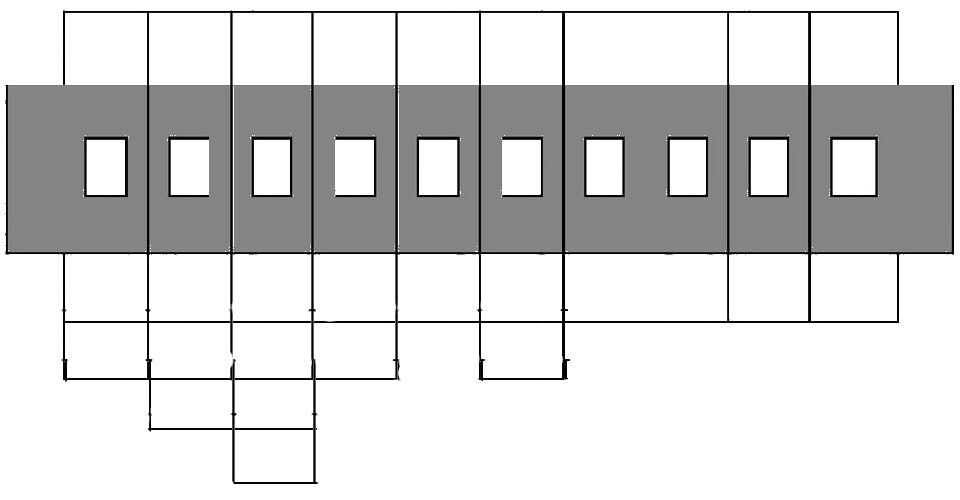
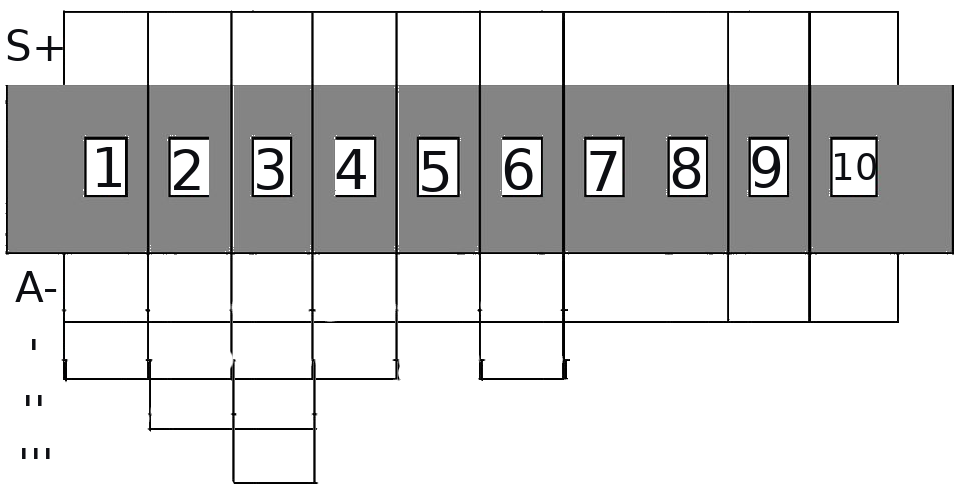
Adição de Escalas

diff --git a/HarmonicaTones/Form1.Designer.cs b/HarmonicaTones/Form1.Designer.cs
@@ -55,7 +55,7 @@ namespace HarmonicaTones
             this.HeaderLayoutPanel.ColumnStyles.Add(new System.Windows.Forms.ColumnStyle(System.Windows.Forms.SizeType.Percent, 75.46777F));
             this.HeaderLayoutPanel.ColumnStyles.Add(new System.Windows.Forms.ColumnStyle(System.Windows.Forms.SizeType.Percent, 24.53222F));
             this.HeaderLayoutPanel.ColumnStyles.Add(new System.Windows.Forms.ColumnStyle(System.Windows.Forms.SizeType.Absolute, 121F));
-            this.HeaderLayoutPanel.ColumnStyles.Add(new System.Windows.Forms.ColumnStyle(System.Windows.Forms.SizeType.Absolute, 631F));
+            this.HeaderLayoutPanel.ColumnStyles.Add(new System.Windows.Forms.ColumnStyle(System.Windows.Forms.SizeType.Absolute, 635F));
             this.HeaderLayoutPanel.Controls.Add(this.label_HarmonicaTune, 0, 0);
             this.HeaderLayoutPanel.Controls.Add(this.ToneComboBox, 0, 1);
             this.HeaderLayoutPanel.Controls.Add(this.label_ScaleFamily, 1, 0);
@@ -93,7 +93,7 @@ namespace HarmonicaTones
             // label_ScaleFamily
             // 
             this.label_ScaleFamily.AutoSize = true;
-            this.label_ScaleFamily.Location = new System.Drawing.Point(365, 0);
+            this.label_ScaleFamily.Location = new System.Drawing.Point(362, 0);
             this.label_ScaleFamily.Name = "label_ScaleFamily";
             this.label_ScaleFamily.Size = new System.Drawing.Size(77, 25);
             this.label_ScaleFamily.TabIndex = 4;
@@ -102,7 +102,7 @@ namespace HarmonicaTones
             // ScaleComboBox
             // 
             this.ScaleComboBox.FormattingEnabled = true;
-            this.ScaleComboBox.Location = new System.Drawing.Point(482, 45);
+            this.ScaleComboBox.Location = new System.Drawing.Point(478, 45);
             this.ScaleComboBox.Name = "ScaleComboBox";
             this.ScaleComboBox.Size = new System.Drawing.Size(115, 33);
             this.ScaleComboBox.TabIndex = 3;
@@ -111,9 +111,9 @@ namespace HarmonicaTones
             // ScaleNotesComboBox
             // 
             this.ScaleNotesComboBox.FormattingEnabled = true;
-            this.ScaleNotesComboBox.Location = new System.Drawing.Point(365, 45);
+            this.ScaleNotesComboBox.Location = new System.Drawing.Point(362, 45);
             this.ScaleNotesComboBox.Name = "ScaleNotesComboBox";
-            this.ScaleNotesComboBox.Size = new System.Drawing.Size(111, 33);
+            this.ScaleNotesComboBox.Size = new System.Drawing.Size(110, 33);
             this.ScaleNotesComboBox.TabIndex = 6;
             this.ScaleNotesComboBox.SelectedIndexChanged += new System.EventHandler(this.ScaleNotesComboBox_SelectedIndexChanged);
             // 
@@ -149,30 +149,31 @@ namespace HarmonicaTones
             this.ImageLayoutPanel.Anchor = ((System.Windows.Forms.AnchorStyles)((((System.Windows.Forms.AnchorStyles.Top | System.Windows.Forms.AnchorStyles.Bottom) 
             | System.Windows.Forms.AnchorStyles.Left) 
             | System.Windows.Forms.AnchorStyles.Right)));
-            this.ImageLayoutPanel.BackgroundImage = global::HarmonicaTones.Properties.Resources.Harmonica;
+            this.ImageLayoutPanel.BackgroundImage = global::HarmonicaTones.Properties.Resources.Harmonica_Bends;
             this.ImageLayoutPanel.BackgroundImageLayout = System.Windows.Forms.ImageLayout.Stretch;
             this.ImageLayoutPanel.ColumnCount = 12;
-            this.ImageLayoutPanel.ColumnStyles.Add(new System.Windows.Forms.ColumnStyle(System.Windows.Forms.SizeType.Percent, 6.493506F));
-            this.ImageLayoutPanel.ColumnStyles.Add(new System.Windows.Forms.ColumnStyle(System.Windows.Forms.SizeType.Percent, 8.685065F));
-            this.ImageLayoutPanel.ColumnStyles.Add(new System.Windows.Forms.ColumnStyle(System.Windows.Forms.SizeType.Percent, 8.847403F));
-            this.ImageLayoutPanel.ColumnStyles.Add(new System.Windows.Forms.ColumnStyle(System.Windows.Forms.SizeType.Percent, 8.36039F));
-            this.ImageLayoutPanel.ColumnStyles.Add(new System.Windows.Forms.ColumnStyle(System.Windows.Forms.SizeType.Percent, 8.928572F));
-            this.ImageLayoutPanel.ColumnStyles.Add(new System.Windows.Forms.ColumnStyle(System.Windows.Forms.SizeType.Percent, 8.36039F));
-            this.ImageLayoutPanel.ColumnStyles.Add(new System.Windows.Forms.ColumnStyle(System.Windows.Forms.SizeType.Percent, 8.847403F));
-            this.ImageLayoutPanel.ColumnStyles.Add(new System.Windows.Forms.ColumnStyle(System.Windows.Forms.SizeType.Percent, 8.685065F));
-            this.ImageLayoutPanel.ColumnStyles.Add(new System.Windows.Forms.ColumnStyle(System.Windows.Forms.SizeType.Percent, 8.522727F));
-            this.ImageLayoutPanel.ColumnStyles.Add(new System.Windows.Forms.ColumnStyle(System.Windows.Forms.SizeType.Percent, 8.441559F));
-            this.ImageLayoutPanel.ColumnStyles.Add(new System.Windows.Forms.ColumnStyle(System.Windows.Forms.SizeType.Percent, 9.172078F));
-            this.ImageLayoutPanel.ColumnStyles.Add(new System.Windows.Forms.ColumnStyle(System.Windows.Forms.SizeType.Percent, 6.574676F));
+            this.ImageLayoutPanel.ColumnStyles.Add(new System.Windows.Forms.ColumnStyle(System.Windows.Forms.SizeType.Percent, 6.49878F));
+            this.ImageLayoutPanel.ColumnStyles.Add(new System.Windows.Forms.ColumnStyle(System.Windows.Forms.SizeType.Percent, 8.69212F));
+            this.ImageLayoutPanel.ColumnStyles.Add(new System.Windows.Forms.ColumnStyle(System.Windows.Forms.SizeType.Percent, 8.854589F));
+            this.ImageLayoutPanel.ColumnStyles.Add(new System.Windows.Forms.ColumnStyle(System.Windows.Forms.SizeType.Percent, 8.367181F));
+            this.ImageLayoutPanel.ColumnStyles.Add(new System.Windows.Forms.ColumnStyle(System.Windows.Forms.SizeType.Percent, 8.935824F));
+            this.ImageLayoutPanel.ColumnStyles.Add(new System.Windows.Forms.ColumnStyle(System.Windows.Forms.SizeType.Percent, 8.367181F));
+            this.ImageLayoutPanel.ColumnStyles.Add(new System.Windows.Forms.ColumnStyle(System.Windows.Forms.SizeType.Percent, 8.854589F));
+            this.ImageLayoutPanel.ColumnStyles.Add(new System.Windows.Forms.ColumnStyle(System.Windows.Forms.SizeType.Percent, 8.69212F));
+            this.ImageLayoutPanel.ColumnStyles.Add(new System.Windows.Forms.ColumnStyle(System.Windows.Forms.SizeType.Percent, 8.52965F));
+            this.ImageLayoutPanel.ColumnStyles.Add(new System.Windows.Forms.ColumnStyle(System.Windows.Forms.SizeType.Percent, 8.448416F));
+            this.ImageLayoutPanel.ColumnStyles.Add(new System.Windows.Forms.ColumnStyle(System.Windows.Forms.SizeType.Percent, 9.179528F));
+            this.ImageLayoutPanel.ColumnStyles.Add(new System.Windows.Forms.ColumnStyle(System.Windows.Forms.SizeType.Percent, 6.580017F));
             this.ImageLayoutPanel.Location = new System.Drawing.Point(3, 186);
             this.ImageLayoutPanel.Name = "ImageLayoutPanel";
-            this.ImageLayoutPanel.RowCount = 6;
-            this.ImageLayoutPanel.RowStyles.Add(new System.Windows.Forms.RowStyle(System.Windows.Forms.SizeType.Percent, 26.87861F));
-            this.ImageLayoutPanel.RowStyles.Add(new System.Windows.Forms.RowStyle(System.Windows.Forms.SizeType.Percent, 47.68786F));
-            this.ImageLayoutPanel.RowStyles.Add(new System.Windows.Forms.RowStyle(System.Windows.Forms.SizeType.Percent, 25.72254F));
-            this.ImageLayoutPanel.RowStyles.Add(new System.Windows.Forms.RowStyle(System.Windows.Forms.SizeType.Absolute, 20F));
-            this.ImageLayoutPanel.RowStyles.Add(new System.Windows.Forms.RowStyle(System.Windows.Forms.SizeType.Absolute, 20F));
-            this.ImageLayoutPanel.RowStyles.Add(new System.Windows.Forms.RowStyle(System.Windows.Forms.SizeType.Absolute, 20F));
+            this.ImageLayoutPanel.RowCount = 7;
+            this.ImageLayoutPanel.RowStyles.Add(new System.Windows.Forms.RowStyle(System.Windows.Forms.SizeType.Percent, 17.06667F));
+            this.ImageLayoutPanel.RowStyles.Add(new System.Windows.Forms.RowStyle(System.Windows.Forms.SizeType.Percent, 33.06667F));
+            this.ImageLayoutPanel.RowStyles.Add(new System.Windows.Forms.RowStyle(System.Windows.Forms.SizeType.Percent, 14.13333F));
+            this.ImageLayoutPanel.RowStyles.Add(new System.Windows.Forms.RowStyle(System.Windows.Forms.SizeType.Percent, 11.2F));
+            this.ImageLayoutPanel.RowStyles.Add(new System.Windows.Forms.RowStyle(System.Windows.Forms.SizeType.Percent, 10.4F));
+            this.ImageLayoutPanel.RowStyles.Add(new System.Windows.Forms.RowStyle(System.Windows.Forms.SizeType.Percent, 9.6F));
+            this.ImageLayoutPanel.RowStyles.Add(new System.Windows.Forms.RowStyle(System.Windows.Forms.SizeType.Percent, 4F));
             this.ImageLayoutPanel.Size = new System.Drawing.Size(1232, 375);
             this.ImageLayoutPanel.TabIndex = 3;
             // 

diff --git a/HarmonicaTones/Form1.cs b/HarmonicaTones/Form1.cs
@@ -19,6 +19,7 @@ namespace HarmonicaTones
         public int harmonica_tune = 1;
         public List<Label> blowNote_labels = new List<Label>();
         public List<Label> drawNote_labels = new List<Label>();
+        public List<Label> bendNote_labels = new List<Label>();
         public Dictionary<int, string> Notes = new Dictionary<int, string>() //Translate note values to their meaning
         {
             {1, "C"},
@@ -75,6 +76,18 @@ namespace HarmonicaTones
             {9, 6},
             {10, 10}
         };
+        public Dictionary<int, int> BendNotes = new Dictionary<int, int>() //draw positions to notes
+        {
+            {1, 2},
+            {2, 7},
+            {3, 6},
+            {4, 11},
+            {5, 10},
+            {6, 9},
+            {7, 2},
+            {8, 9},
+        };
+
 
         public Scale ActiveScale = new Scale();
         public string scalesPath = @"..\..\res\scales\";
@@ -124,7 +137,7 @@ namespace HarmonicaTones
 
             RefreshAll();
 
-            var BFC = new ByteFileCreator("SCALE_NAME");
+            var BFC = new ByteFileCreator("Mixolídio");
             BFC.GenerateScaleByteFile(false);
         }
 
@@ -189,6 +202,7 @@ namespace HarmonicaTones
                 drawNote_labels[i].Text = "label";
                 drawNote_labels[i].TextAlign = System.Drawing.ContentAlignment.MiddleCenter;
             }
+            ConfigureBendLabels();
         }
 
 
@@ -203,6 +217,8 @@ namespace HarmonicaTones
                 drawNote_labels[i].Font = new Font("Microsoft Sans Serif", 12F, FontStyle.Regular);
             }
 
+            ClearBendLabelFormating();
+
         }
 
         private void ChangeLabelColor(Label label, Color color, FontStyle fontstyle)
@@ -210,6 +226,7 @@ namespace HarmonicaTones
             label.ForeColor = color;
             label.Font = new Font("Microsoft Sans Serif", 12F, fontstyle);
         }
+
 
         // General Notes Methods
         public int TransposeNote(int note, int shift)
@@ -231,6 +248,7 @@ namespace HarmonicaTones
             return targetTune - tune;
         }
 
+
         // Harmonica Tuning
         private void ChangeHarmonicaTune(int tune, int targetTune)
         {
@@ -241,11 +259,14 @@ namespace HarmonicaTones
                 BlowNotes[i] = TransposeNote(BlowNotes[i], shift);
                 DrawNotes[i] = TransposeNote(DrawNotes[i], shift);
             }
+            ChangeBendsInHarmonicaTune(shift);
+
             this.harmonica_tune = targetTune;
         }
 
         private void UpdateNotes_atHarmonicaLabels()
         {
+            UpdateBendNotes_atLabels();
             for (int i = 0; i < HARMONICA_HOLES; i++)
             {
                 if (BlowNotes.TryGetValue(i + 1, out int Note_asInteger))
@@ -266,6 +287,7 @@ namespace HarmonicaTones
             }
         }
 
+
         // Scale Marker
         private void MarkNotesInScale(List<int> scale)
         {
@@ -274,7 +296,7 @@ namespace HarmonicaTones
             {
                 for (int i = 0; i < HARMONICA_HOLES; i++)
                 {
-                    if(note == BlowNotes[i + 1])
+                    if (note == BlowNotes[i + 1])
                     {
                         ChangeLabelColor(blowNote_labels[i], Color.Red, FontStyle.Bold);
                     }
@@ -283,6 +305,8 @@ namespace HarmonicaTones
                         ChangeLabelColor(drawNote_labels[i], Color.Red, FontStyle.Bold);
                     }
                 }
+
+                MarkBendNotesInScale(note);
             }
         }
 
@@ -302,7 +326,98 @@ namespace HarmonicaTones
         {
             RefreshAll();
         }
+
+
+        // Bends
+        private void ConfigureBendLabels()
+        {
+            int i = 0; //contador
+            int bendDegreeCounter = 0;
+
+            for (int hole = 0; hole < 6; hole++)
+            {
+                if (bendDegreeCounter < 3)
+                {
+                    for (int bendDegree = 0; bendDegree <= bendDegreeCounter; bendDegree++)
+                    {
+                        AddBendLabel(i, hole, bendDegree);
+                        i++;
+                    }
+                }
+                else if (hole != 4)
+                {
+                    AddBendLabel(i, hole, 0);
+                    i++;
+                }
+                bendDegreeCounter++;
+            }
+
+            
+        }
+
+        private void AddBendLabel(int i, int hole, int bendDegree)
+        {
+            bendNote_labels.Add(new Label());
+            ImageLayoutPanel.Controls.Add(bendNote_labels[i], hole + 1, 3 + bendDegree);
+
+            bendNote_labels[i].Anchor = ((System.Windows.Forms.AnchorStyles)((((System.Windows.Forms.AnchorStyles.Top | System.Windows.Forms.AnchorStyles.Bottom)
+                            | System.Windows.Forms.AnchorStyles.Left)
+                            | System.Windows.Forms.AnchorStyles.Right)));
+            bendNote_labels[i].AutoSize = true;
+            bendNote_labels[i].BackColor = System.Drawing.Color.Transparent;
+            bendNote_labels[i].Location = new System.Drawing.Point(83, 0);
+            bendNote_labels[i].Name = "Bend" + (i + 1).ToString();
+            bendNote_labels[i].Size = new System.Drawing.Size(101, 92);
+            bendNote_labels[i].TabIndex = 0;
+            bendNote_labels[i].Text = "label";
+            bendNote_labels[i].TextAlign = System.Drawing.ContentAlignment.MiddleCenter;
+        }
+
+        private void ChangeBendsInHarmonicaTune(int shift)
+        {
+            for (int i = 1; i <= BendNotes.Count; i++)
+            {
+                BendNotes[i] = TransposeNote(BendNotes[i], shift);
+            }
+        }
+
+        private void UpdateBendNotes_atLabels()
+        {
+            for (int i = 0; i < BendNotes.Count; i++)
+            {
+                if (BendNotes.TryGetValue(i + 1, out int Note_asInteger))
+                {
+                    if (Notes.TryGetValue(Note_asInteger, out string Note_asString))
+                    {
+                        bendNote_labels[i].Text = Note_asString;
+                    }
+
+                }
+            }
+        }
+
+        private void MarkBendNotesInScale(int note)
+        {
+            for (int i = 0; i < BendNotes.Count(); i++)
+            {
+                if (note == BendNotes[i + 1])
+                {
+                    ChangeLabelColor(bendNote_labels[i], Color.Blue, FontStyle.Bold);
+                }
+            }
+        }
+
+        private void ClearBendLabelFormating()
+        {
+            for (int i = 0; i < BendNotes.Count; i++)
+            {
+                bendNote_labels[i].ForeColor = Color.Gray;
+                bendNote_labels[i].Font = new Font("Microsoft Sans Serif", 12F, FontStyle.Regular);
+            }
+        }
+
     }
+
 
     public class Scale
     {
@@ -341,7 +456,6 @@ namespace HarmonicaTones
             }
             return note;
         }
-
 
         public void ChangeScale(string scalePath)
         {

diff --git a/HarmonicaTones/res/ByteFileCreator.cs b/HarmonicaTones/res/ByteFileCreator.cs
@@ -9,7 +9,7 @@ namespace HarmonicaTones.res
 {
     class ByteFileCreator
     {
-        string Filename = "Minor";
+        string Filename = "Mixolidio";
         public ByteFileCreator(string filename)
         {
             this.Filename = filename;
@@ -22,10 +22,10 @@ namespace HarmonicaTones.res
                 {
                     1,
                     3,
-                    4,
+                    5,
                     6,
                     8,
-                    9,
+                    10,
                     11
                 };
                 File.WriteAllBytes(@"C:\Users\jpaul\source\repos\jplsanchez\HarmonicaTones\HarmonicaTones\res\scales\" + Filename, Scale);
